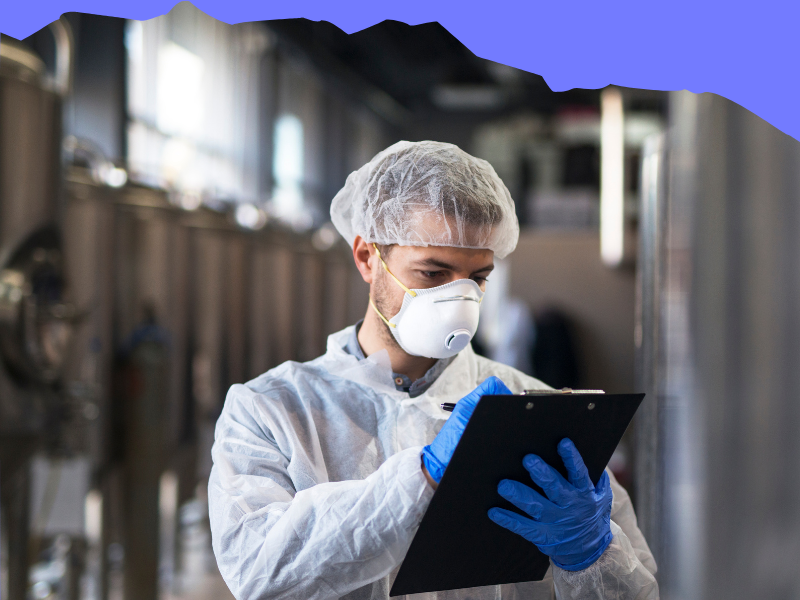
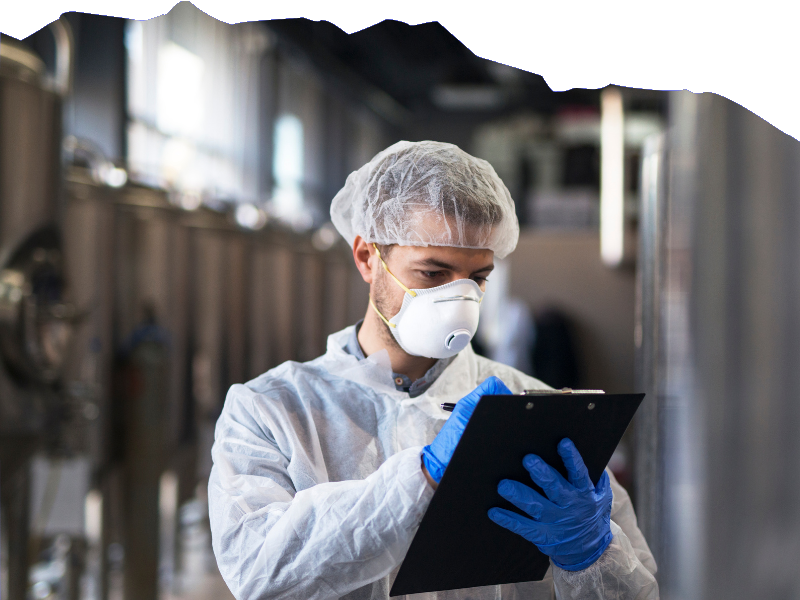
Cambios En El Diseño De Imagenes En Sección De Certificaciones

Changed region(s): [[0.0, 0.0, 1.0, 0.24]]

diff --git a/css/style.css b/css/style.css
@@ -18379,7 +18379,17 @@ box-shadow: 8px 8px 20px #00000027, -8px -8px 20px #969393;
 	height: 750px; /* altura deseada */
   }
 
+  .videoResponsivo {
+	width : 100%;
+	height : 100%;
+  }
+
 @media screen and (max-width: 767px) {
+
+	.videoResponsivo {
+	width : 100%;
+	height : 100%;
+  }
 
   .consoleContainer {
 	font-size: 5px;
@@ -18467,4 +18477,12 @@ box-shadow: 8px 8px 20px #00000027, -8px -8px 20px #969393;
   	-ms-transform: scale(1.25);
   	-o-transform: scale(1.25);
   	transform: scale(1.25);
+  }
+
+  .menu-vertical.active ~ #translate .translate-icon {
+	display: none;
+  }
+
+  .hide {
+	display: none;
   }

diff --git a/about-us.php b/about-us.php
@@ -14,6 +14,7 @@
   <link rel="stylesheet" href="css/style.css" id="main-styles-link">
   <link rel="stylesheet" href="https://cdnjs.cloudflare.com/ajax/libs/font-awesome/6.2.1/css/all.min.css" integrity="sha512-MV7K8+y+gLIBoVD59lQIYicR65iaqukzvf/nwasF0nqhPay5w/9lJmVM2hMDcnK1OnMGCdVK+iQrJ7lzPJQd1w==" crossorigin="anonymous" referrerpolicy="no-referrer" />
   <link rel="stylesheet" href="https://cdn.jsdelivr.net/npm/@mdi/font@7.2.96/css/materialdesignicons.min.css">
+  <link rel="stylesheet" type="text/css" href="https://cdn.jsdelivr.net/npm/slick-carousel@1.8.1/slick/slick.css" />
 
   <style>
     .ie-panel {
@@ -96,7 +97,6 @@
           <div class="rd-navbar-main-outer" style="padding-left: 20%;">
             <div class="rd-navbar-main">
               <div class="rd-navbar-nav-wrap" id="rd-navbar-nav-wrap-1">
-
                 <ul class="rd-navbar-nav menu-horizontal">
                   <li class="rd-nav-item"><a class="rd-nav-link" href="index.php" style="font-size: 19px">Inicio</a>
                   </li>
@@ -105,14 +105,13 @@
                     <ul class="menu-vertical" style="text-align: center;">
                       <li class="rd-nav-item active"><a class="rd-nav-link" href="about-us.php">¿Quiénes Somos?</a></li>
                       <li><a class="rd-nav-link" href="certificaciones.php">Certificaciones</a></li>
-                      <!-- <li><a class="rd-nav-link" href="diagnosticos.php">Diagnósticos Gratuitos</a></li> -->
                       <li><a class="rd-nav-link" href="investigaciones.php">Investigaciones</a></li>
                       <li><a class="rd-nav-link" href="distribuicion.php">Puntos de Distribuición</a></li>
                     </ul>
                   </li>
                   <li class="rd-nav-item">
                     <p class="rd-nav-link" style="cursor: pointer; font-size: 19px">Productos</p>
-                    <ul class="menu-vertical" style="text-align: center;">
+                    <ul class="menu-vertical" onmouseover="toggleTranslateIcon()" onmouseout="toggleTranslateIcon()" style="text-align: center;">
                       <li><a class="rd-nav-link" href="typography.php">Productos</a></li>
                       <li><a class="rd-nav-link" href="levaduras.php">Levaduras</a></li>
                       <li><a class="rd-nav-link" href="nutrientes.php">Nutrientes</a></li>
@@ -122,7 +121,7 @@
                   </li>
                   <li class="rd-nav-item"><a class="rd-nav-link" href="diagnosticos.php" style="font-size: 19px">Servicios</a>
                   <li id="translate" class="rd-nav-item">
-                    <p class="rd-nav-link"><span style="font-size: 22px" class="icon novi-icon mdi mdi-google-translate"></span></p>
+                    <a class="rd-nav-link" style="z-index: 0.5;"><span id="translate-icon" style="font-size: 22px" class="icon novi-icon mdi mdi-google-translate hide"></span></a>
                   </li>
                 </ul>
               </div>
@@ -151,7 +150,7 @@
             <!-- <a class="button button-lg button-primary button-winona" href="about-us.html">View properties</a> -->
           </div>
           <div class="col-md-10 col-lg-6 col-xl-6" style="margin-top: 5%;">
-            <iframe width="560" height="400" src="https://www.youtube.com/embed/k3uHN6LZpg8?&autoplay=1&mute=1&controls=1" title="Ininbio" frameborder="0" allow="accelerometer; autoplay; clipboard-write; encrypted-media; gyroscope; picture-in-picture; web-share" allowfullscreen></iframe>
+            <iframe class="videoResponsivo" src="https://www.youtube.com/embed/k3uHN6LZpg8?&autoplay=1&mute=1&controls=1" title="Ininbio" frameborder="0" allow="accelerometer; autoplay; clipboard-write; encrypted-media; gyroscope; picture-in-picture; web-share" allowfullscreen></iframe>
           </div>
         </div>
       </div>
@@ -212,20 +211,29 @@
         </div>
       </div>
     </section>
+
+    <!-- <section>
+    <div class="slider-for">
+      <div>Hola</div>
+      <div>PPPP</div>
+      <div>your content</div>
+    </div>
+    </section> -->
+
     <section class="section novi-background section-lg text-center">
       <div class="container">
         <h3 class="text-uppercase wow-outer"><span class="wow slideInUp">Nuestro Equipo de Trabajo</span></h3>
-        <div class="row row-50 row-xxl-70 justify-content-center justify-content-lg-start">
-          <div class="col-md-10 col-lg-6 wow-outer">
+        <div class="row row-50 row-xxl-70 justify-content-center justify-content-lg-start autoplay">
+          <div class="wow-outer">
             <!-- Profile Creative-->
             <article class="profile-creative wow slideInLeft">
               <figure class="profile-creative-figure"><img class="profile-creative-image" src="images/team-1-270x273.jpg" alt="" width="170" height="172" />
               </figure>
               <div class="profile-creative-main">
                 <h5 class="profile-creative-title">
-                  <p>Juan Andres Aguilar Naranjo</p>
+                  <p>Eduardo Benjamín Ibarra Hernández</p>
                 </h5>
-                <p class="profile-creative-position">Jefe de departamento de TI</p>
+                <p class="profile-creative-position">CEO y Director General Grupo Ininbio</p>
                 <div class="profile-creative-contacts">
                   <div class="object-inline"><span class="icon novi-icon icon-md mdi mdi-phone"></span>
                     <p style="margin-top: 0px;">1-800-1324-567</p>
@@ -235,16 +243,16 @@
               </div>
             </article>
           </div>
-          <div class="col-md-10 col-lg-6 wow-outer">
+          <div class="wow-outer">
             <!-- Profile Creative-->
             <article class="profile-creative wow slideInLeft" data-wow-delay=".2s">
               <figure class="profile-creative-figure"><img class="profile-creative-image" src="images/team-2-270x273.jpg" alt="" width="170" height="172" />
               </figure>
               <div class="profile-creative-main">
                 <h5 class="profile-creative-title">
-                  <p>Hortencia Piña</p>
+                  <p>José Martín Martínez Vera</p>
                 </h5>
-                <p class="profile-creative-position">Jefe de departamento de Bioquimica</p>
+                <p class="profile-creative-position">Jefa de Departamento De Mecatrónica</p>
                 <div class="profile-creative-contacts">
                   <div class="object-inline"><span class="icon novi-icon icon-md mdi mdi-phone"></span>
                     <p style="margin-top: 0px;">1-800-1324-567</p>
@@ -254,16 +262,16 @@
               </div>
             </article>
           </div>
-          <div class="col-md-10 col-lg-6 wow-outer">
+          <div class="wow-outer">
             <!-- Profile Creative-->
             <article class="profile-creative wow slideInLeft">
               <figure class="profile-creative-figure"><img class="profile-creative-image" src="images/team-3-270x273.jpg" alt="" width="170" height="172" />
               </figure>
               <div class="profile-creative-main">
                 <h5 class="profile-creative-title">
-                  <P>Jose Martin Martinez</P>
+                  <P>Jorge Luis Salazar Martínez</P>
                 </h5>
-                <p class="profile-creative-position">Jefe de departamento de Mecatronica</p>
+                <p class="profile-creative-position"></p>
                 <div class="profile-creative-contacts">
                   <div class="object-inline"><span class="icon novi-icon icon-md mdi mdi-phone"></span>
                     <p style="margin-top: 0px;">1-800-1324-567</p>
@@ -273,7 +281,7 @@
               </div>
             </article>
           </div>
-          <div class="col-md-10 col-lg-6 wow-outer">
+          <div class="wow-outer">
             <!-- Profile Creative-->
             <article class="profile-creative wow slideInLeft" data-wow-delay=".2s">
               <figure class="profile-creative-figure"><img class="profile-creative-image" src="images/team-4-270x273.jpg" alt="" width="170" height="172" />
@@ -292,7 +300,7 @@
               </div>
             </article>
           </div>
-          <div class="col-md-10 col-lg-6 wow-outer">
+          <div class="wow-outer">
             <!-- Profile Creative-->
             <article class="profile-creative wow slideInLeft" data-wow-delay=".2s">
               <figure class="profile-creative-figure"><img class="profile-creative-image" src="images/team-4-270x273.jpg" alt="" width="170" height="172" />
@@ -311,7 +319,7 @@
               </div>
             </article>
           </div>
-          <div class="col-md-10 col-lg-6 wow-outer">
+          <div class="wow-outer">
             <!-- Profile Creative-->
             <article class="profile-creative wow slideInLeft" data-wow-delay=".2s">
               <figure class="profile-creative-figure"><img class="profile-creative-image" src="images/team-4-270x273.jpg" alt="" width="170" height="172" />
@@ -333,6 +341,7 @@
         </div>
       </div>
     </section>
+
     <footer class="section novi-background footer-advanced bg-gray-700">
       <div class="footer-advanced-main">
         <div class="container">
@@ -443,6 +452,11 @@
           layout: google.translate.TranslateElement.InlineLayout.SIMPLE
         },
         'google_translate_element');
+
+      function toggleTranslateIcon() {
+        var translateIcon = document.getElementById("translate-icon");
+        translateIcon.classList.toggle("hide");
+      }
     }
   </script>
 
@@ -453,7 +467,43 @@
   <script src="js/script.js"></script>
   <script src="js\contador.js"></script>
   <script type="text/javascript" src="//translate.google.com/translate_a/element.js?cb=googleTranslateElementInit"></script>
+  <script type="text/javascript" src="https://cdn.jsdelivr.net/npm/slick-carousel@1.8.1/slick/slick.min.js"></script>
 
+  <script type="text/javascript">
+    const mediaQuery = window.matchMedia('(max-width: 768px)');
+
+    function aplicarMediaQuery() {
+      $('.autoplay').slick({
+        slidesToShow: 1,
+        slidesToScroll: 1,
+        autoplay: true,
+        autoplaySpeed: 10000,
+      });
+    }
+
+    function noAplicarMediaQuery() {
+      $('.autoplay').slick({
+        slidesToShow: 2,
+        slidesToScroll: 1,
+        autoplay: true,
+        autoplaySpeed: 10000,
+      });
+    }
+
+    if (mediaQuery.matches) {
+      aplicarMediaQuery();
+    } else {
+      noAplicarMediaQuery();
+    }
+
+    // mediaQuery.addEventListener('change', (e) => {
+    //   if (e.matches) {
+    //     aplicarMediaQuery();
+    //   } else {
+    //     noAplicarMediaQuery();
+    //   }
+    // });
+  </script>
 
   <link rel="stylesheet" href="css\whats.css">
   <link rel="stylesheet" href="https://maxcdn.bootstrapcdn.com/font-awesome/4.5.0/css/font-awesome.min.css">

diff --git a/certificaciones.php b/certificaciones.php
@@ -142,11 +142,11 @@
       <div class="container">
         <div class="row row-50 justify-content-center justify-content-lg-between flex-lg-row-reverse">
           <div class="col-md-10 col-lg-6 col-xl-5">
-            <h3 class="text-uppercase">MEDALLA DE ORO A LA CALIDAD Y SERVICIO</h3>
+            <h3 class="text-uppercase" style="text-align: center; font-weight: normal;">MEDALLA DE ORO A LA CALIDAD Y SERVICIO</h3>
             <!-- <p class="about-subtitle">ININBIO</p> -->
             <br>
-            <p style="font-size: 20px; font-weight: normal; text-align: justify; color: black;">
-              ININBIO recibe de la Organización Mundial de Mercadotecnia, S.C., la Medalla de Oro a la Calidad y el Servicio 2019, demostrando
+            <p style="font-size: 25px; font-weight: normal; text-align: justify; color: black;">
+              Ininbio recibe de la Organización Mundial de Mercadotecnia, S.C., la Medalla de Oro a la Calidad y el Servicio 2019, demostrando
               su liderazgo en la calidad del servicio al ser empresa líder en el ramo de Nutrición Celular en procesos de Fermentación Alcohólica.
             </p>
             <!-- <a class="button button-lg button-primary button-winona" href="about-us.html">View properties</a> -->
@@ -163,10 +163,10 @@
           <div class="col-md-10 col-lg-6 col-xl-6"><img class="img-responsive" src="images/registroFDA.png" alt="" width="570" height="388" />
           </div>
           <div class="col-md-10 col-lg-6 col-xl-5">
-            <h3 class="text-uppercase">REGISTRO FDA</h3>
+            <h3 class="text-uppercase" style="text-align: center; font-weight: normal;">REGISTRO FDA</h3>
             <!-- <p class="about-subtitle">ININBIO</p> -->
             <br>
-            <p style="font-size: 20px; font-weight: normal; text-align: justify; color: black;"> El registro FDA (Food and Drug Administration) mediante el cual los productos de Ininbio están registrados es la agencia
+            <p style="font-size: 25px; font-weight: normal; text-align: justify; color: black;"> El registro FDA (Food and Drug Administration) mediante el cual los productos de Ininbio están registrados es la agencia
               privada encargada de proporcionar asistencia en el cumplimiento de la Administración de Alimentos y Medicamentos de los
               Estados Unidos para la industria alimentaria de Latinoamérica, por lo cual este registro avala la seguridad de los productos
               (nutrientes para la fermentación alcohólica) que producimos.</p>
@@ -181,10 +181,10 @@
       <div class="container">
         <div class="row row-50 justify-content-center justify-content-lg-between flex-lg-row-reverse">
           <div class="col-md-10 col-lg-6 col-xl-5">
-            <h3 class="text-uppercase">REGISTRO COFEPRIS</h3>
+            <h3 class="text-uppercase" style="text-align: center; font-weight: normal;">REGISTRO COFEPRIS</h3>
             <!-- <p class="about-subtitle">ININBIO</p> -->
             <br>
-            <p style="font-size: 20px; font-weight: normal; text-align: justify; color: black;">Los productos ininbio de igual manera cuentan con registro COFEPRIS (Comisión Federal para la Protección contra Riesgos Sanitarios)
+            <p style="font-size: 25px; font-weight: normal; text-align: justify; color: black;">Los productos bajo la marca Ininbio cuentan con registro COFEPRIS (Comisión Federal para la Protección contra Riesgos Sanitarios)
               lo cual avala que los productos fabricados por ininbio son seguros y libres de cualquier riesgo sanitario.</p>
             <!-- <a class="button button-lg button-primary button-winona" href="about-us.html">View properties</a> -->
           </div>
@@ -200,10 +200,10 @@
           <div class="col-md-10 col-lg-6 col-xl-6"><img class="img-responsive" src="images/certificadoKosher.png" title="https://www.freepik.es/foto-gratis/garantia-concepto-certificado-autorizado-aprobado_17433688.htm#query=certificaci%C3%B3n&position=21&from_view=search&track=robertav1 Imagen de rawpixel.com en Freepik" width="570" height="280" />
           </div>
           <div class="col-md-10 col-lg-6 col-xl-5">
-            <h3 class="text-uppercase">CERTIFICACION KOSHER</h3>
+            <h3 class="text-uppercase" style="text-align: center; font-weight: normal;">CERTIFICACIÓN KOSHER</h3>
             <!-- <p class="about-subtitle">ININBIO</p> -->
             <br>
-            <p style="font-size: 20px; font-weight: normal; text-align: justify; color: black;">Los productos elaborados por ininbio cuentan con la certificación KOSHER lo cual avala que los nutrientes para la fermentación
+            <p style="font-size: 25px; font-weight: normal; text-align: justify; color: black;">Los productos elaborados por Ininbio cuentan con la certificación KOSHER lo cual avala que los nutrientes para la fermentación
               alcohólica son inocuos para la comunidad judía haciéndolos de igual manera para la industria alimentaria.</p>
             <!-- <a class="button button-lg button-primary button-winona" href="about-us.html">View properties</a> -->
           </div>
